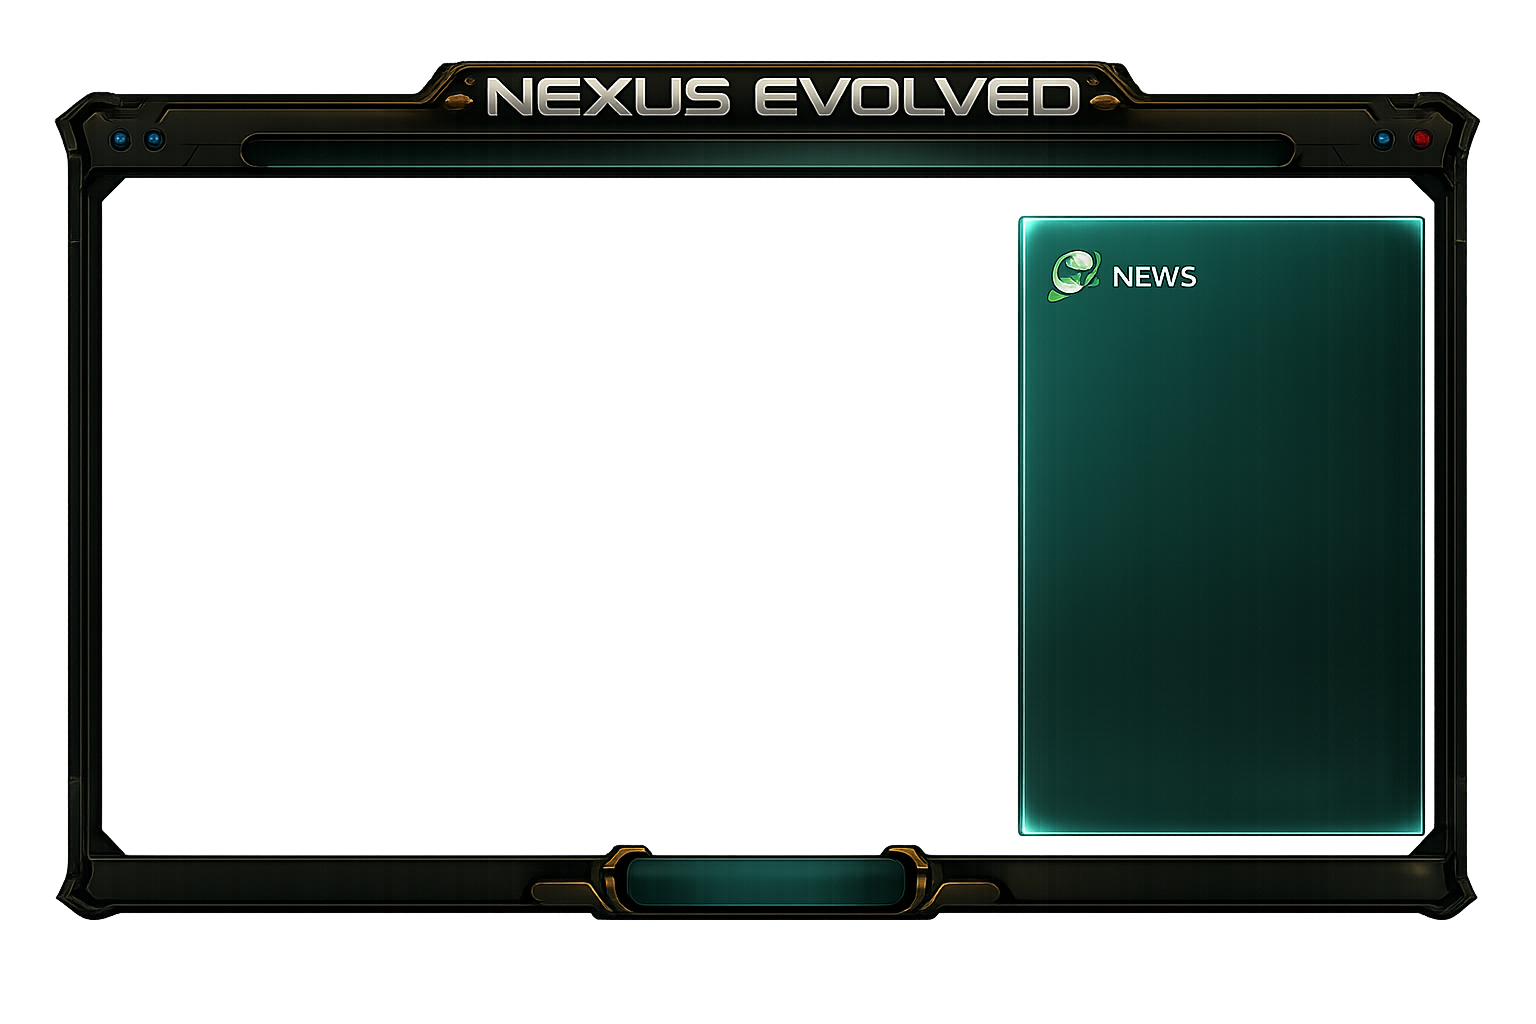
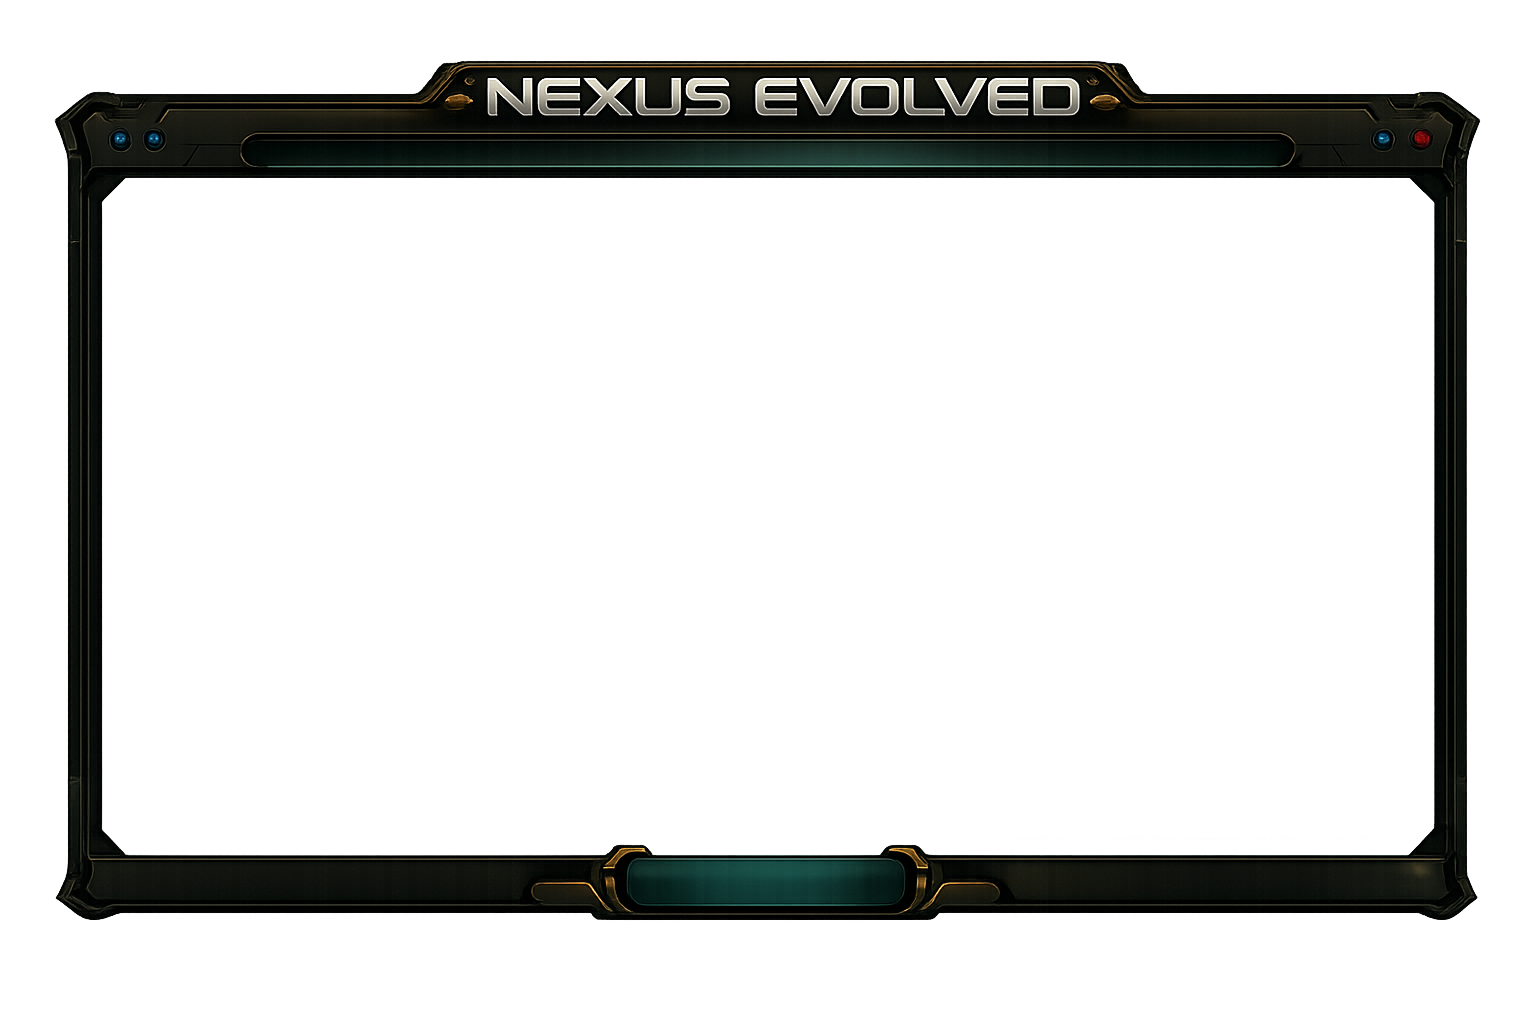
feat: NEWS card now uses standalone news.png on HomePage only (other pages have full clean area); chore: refreshed launcher.png

Changed region(s): [[0.6562, 0.1875, 0.9375, 0.8438]]

diff --git a/src/renderer/src/pages/HomePage.tsx b/src/renderer/src/pages/HomePage.tsx
@@ -3,6 +3,7 @@ import { clsx } from 'clsx'
 import { useStore } from '../store'
 import ContentSlider from '../components/ContentSlider'
 import type { NewsItem, PatchProgress } from '../types'
+import newsCardBg from '../assets/news-card.png'
 
 /**
  * GitHub raw URL for the news feed.
@@ -116,26 +117,45 @@ export default function HomePage() {
       {/* ── Background image slider (fills left content area) ── */}
       <ContentSlider slides={SLIDES} interval={7} />
 
-      {/* NEWS panel — z:30 above frame, with internal padding for clean alignment */}
+      {/* NEWS card — news.png background + scrollable content overlay */}
       <div
-        className="news-scroll"
         style={{
           position: 'absolute',
-          right: '1.5vw',
-          top: '11vh',
-          width: '27.5vw',
+          right: '4vw',
+          top: '2vh',
+          width: '24vw',
           bottom: '18vh',
-          overflowY: 'auto',
-          overflowX: 'hidden',
-          paddingLeft: '2.5vw',
-          paddingRight: '1vw',
-          paddingBottom: '2vh',
-          paddingTop: '3vh',
-          scrollbarWidth: 'thin',
-          scrollbarColor: 'rgba(0,200,176,0.4) transparent',
           zIndex: 30,
         }}
       >
+        {/* Card background image */}
+        <img
+          src={newsCardBg}
+          alt=""
+          draggable={false}
+          className="absolute inset-0 w-full h-full select-none pointer-events-none"
+          style={{ objectFit: 'fill' }}
+        />
+
+        {/* Scrollable content overlay positioned below drawn NEWS header */}
+        <div
+          className="news-scroll absolute"
+          style={{
+            top: '11%',
+            left: 0,
+            right: 0,
+            bottom: '3%',
+            overflowY: 'auto',
+            overflowX: 'hidden',
+            paddingLeft: '1.5vw',
+            paddingRight: '1vw',
+            paddingTop: '1.5vh',
+            paddingBottom: '1vh',
+            scrollbarWidth: 'thin',
+            scrollbarColor: 'rgba(0,200,176,0.4) transparent',
+          }}
+        >
+          <div className="space-y-5">
         <div className="space-y-5">
           {news.length === 0 && (
             <p className="text-[#2a5a50] text-xs text-center pt-6 leading-relaxed">
@@ -169,6 +189,7 @@ export default function HomePage() {
               </p>
             </div>
           ))}
+          </div>
         </div>
       </div>
 
